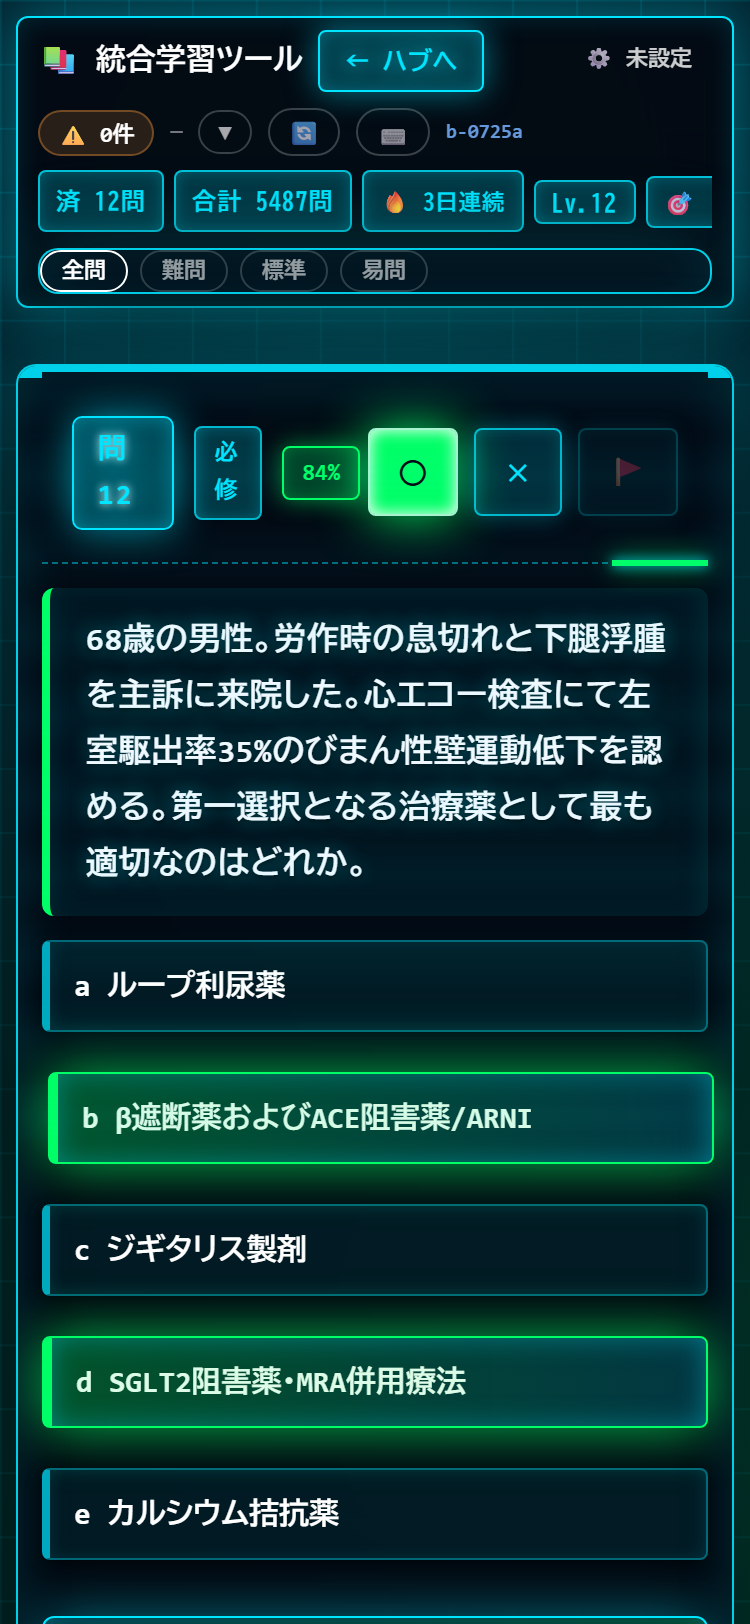
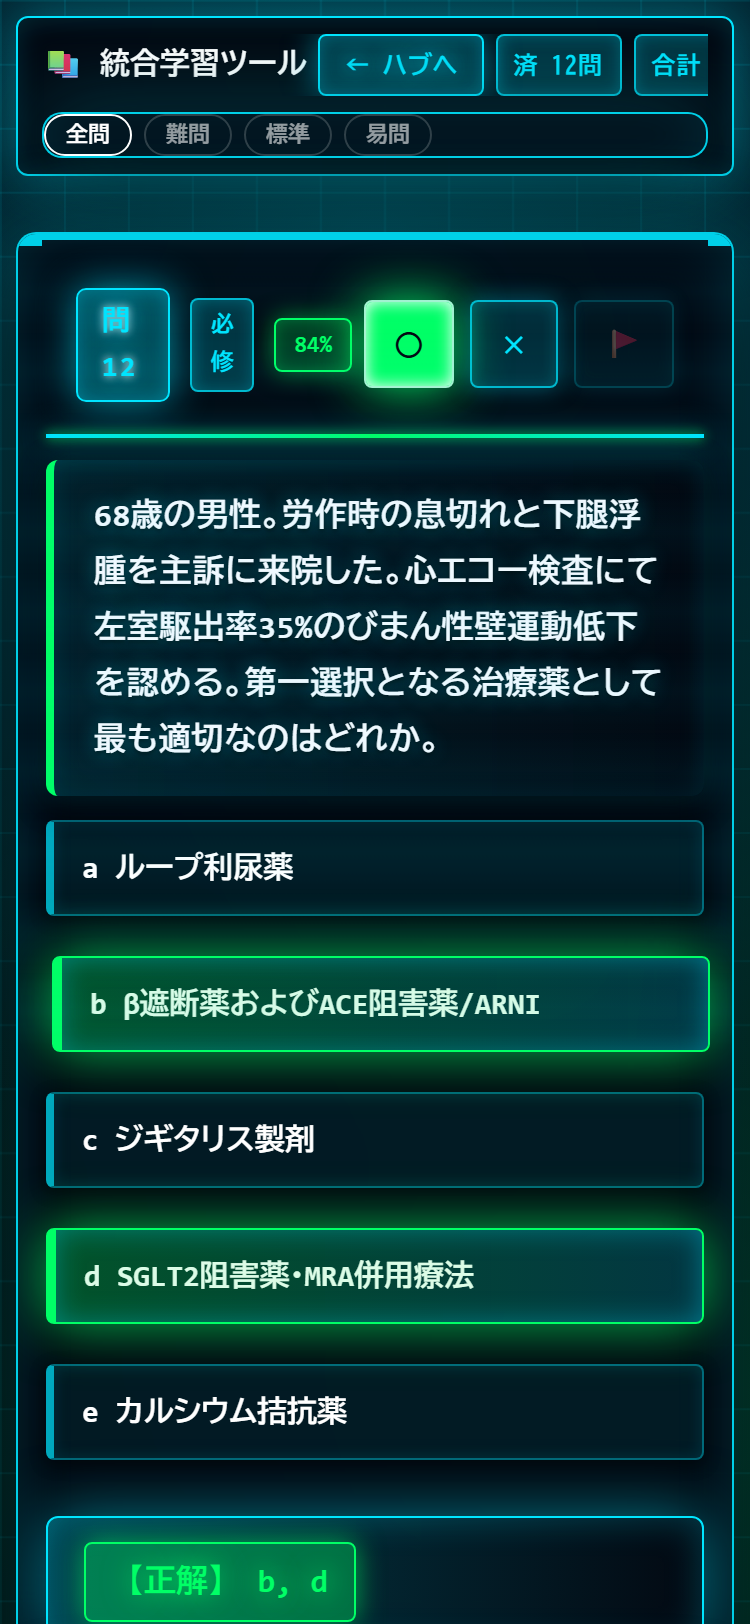
feat(header): merge stats & exam-mode button row into hub-link row and synchronize button order in collapsed state (SHELL_VERSION 2026-08-22l)

diff --git a/study.html b/study.html
@@ -61,6 +61,12 @@ if ('serviceWorker' in navigator) {
   <div class="st-title-row">
     <span class="st-title">📚 統合学習ツール</span>
     <a class="hub-link" href="index.html">← ハブへ</a>
+    <div class="st-stat">済 <span id="statDone">0</span>問</div>
+    <div class="st-stat">合計 <span>5487</span>問</div>
+    <div class="st-stat"><span class="st-streak">🔥 <span id="studyStreak">0</span>日連続</span></div>
+    <button type="button" class="st-stat gm-lv-chip" id="gmLvChip" title="タップでレベル・実績・ミッションを表示">Lv.<b id="gmLvNum">–</b><span class="gm-chip-bar"><span class="gm-chip-fill" id="gmChipFill" style="width:0%"></span></span></button>
+    <button type="button" class="st-stat gm-mission-chip" id="gmMissionChip" title="今日のミッション（必須が揃うと緑）">🎯 –</button>
+    <button class="st-stat exam-mode-chip" id="examModeBtn" onclick="openExamStart()" title="試験モードを開始（現在のフィルター・科目から出題）">🎓 試験モード</button>
     <span class="mec-sync-badge">⚙ 未設定</span>
     <button class="mec-err-badge" id="mecErrBadge" onclick="openErrReports()">⚠ <span id="errCount">0</span>件</button>
     <span class="vis-count" id="visCount" role="status" aria-live="polite" aria-atomic="true">—</span>
@@ -68,14 +74,6 @@ if ('serviceWorker' in navigator) {
     <button class="hdr-toggle" id="mecRefreshBtn" onclick="mecForceRefresh(this)" title="キャッシュを削除して最新版を再読み込み（学習データは消えません）">🔄</button>
     <button class="hdr-toggle" onclick="document.getElementById('mecKbHelp').classList.add('open')" title="キーボードショートカット (?)">⌨</button>
     <span id="mecBuildVer" title="読み込まれているstudy.htmlの版数（リロードで変われば最新が届いた証拠）" style="font-size:10px;font-weight:700;color:rgba(120,179,255,.85);align-self:center;letter-spacing:.5px;">b-0725a</span>
-  </div>
-  <div class="st-stats">
-    <div class="st-stat">済 <span id="statDone">0</span>問</div>
-    <div class="st-stat">合計 <span>5487</span>問</div>
-    <div class="st-stat"><span class="st-streak">🔥 <span id="studyStreak">0</span>日連続</span></div>
-    <button type="button" class="st-stat gm-lv-chip" id="gmLvChip" title="タップでレベル・実績・ミッションを表示">Lv.<b id="gmLvNum">–</b><span class="gm-chip-bar"><span class="gm-chip-fill" id="gmChipFill" style="width:0%"></span></span></button>
-    <button type="button" class="st-stat gm-mission-chip" id="gmMissionChip" title="今日のミッション（必須が揃うと緑）">🎯 –</button>
-    <button class="st-stat exam-mode-chip" id="examModeBtn" onclick="openExamStart()" title="試験モードを開始（現在のフィルター・科目から出題）">🎓 試験モード</button>
   </div>
   <div class="st-filter-panel" id="stFilterPanel">
     <div class="chip-row" role="group" aria-label="科目を選ぶ（1科目のみ）">

diff --git a/ui_theme.css b/ui_theme.css
@@ -2268,72 +2268,32 @@ body.ch-exam-mode .qc:not(.ch-exam-revealed) .ch2.ok:not(.exam-selected) {
 }
 
 /* ═══════════════════════════════════════════════════════════════════
-   ヘッダー折りたたみ時 (hdr-collapsed): 1行統合レイアウト
+   ヘッダー: 1行統合レイアウト & 折りたたみ時 (hdr-collapsed)
    ═══════════════════════════════════════════════════════════════════ */
-.st-hdr.hdr-collapsed {
+.st-title-row {
   display: flex !important;
-  flex-direction: row !important;
   align-items: center !important;
+  gap: 6px !important;
   flex-wrap: nowrap !important;
-  gap: 8px !important;
-  padding: 6px 12px !important;
   overflow-x: auto !important;
   scrollbar-width: none !important;
+  margin-bottom: 7px !important;
 }
 
-.st-hdr.hdr-collapsed::-webkit-scrollbar {
+.st-title-row::-webkit-scrollbar {
   display: none !important;
 }
 
+.st-hdr.hdr-collapsed {
+  padding: 6px 12px !important;
+}
+
 .st-hdr.hdr-collapsed .st-title-row {
-  display: contents !important;
+  margin-bottom: 0 !important;
 }
 
 .st-hdr.hdr-collapsed .st-title {
   display: none !important;
-}
-
-.st-hdr.hdr-collapsed .st-stats {
-  display: contents !important;
-}
-
-.st-hdr.hdr-collapsed .hub-link {
-  order: 1 !important;
-}
-
-.st-hdr.hdr-collapsed .st-stat.exam-mode-chip {
-  order: 2 !important;
-  margin-left: 0 !important;
-}
-
-.st-hdr.hdr-collapsed .st-stat:not(.exam-mode-chip) {
-  order: 3 !important;
-}
-
-.st-hdr.hdr-collapsed .mec-sync-badge {
-  order: 4 !important;
-  margin-left: 0 !important;
-}
-
-.st-hdr.hdr-collapsed .mec-err-badge {
-  order: 5 !important;
-}
-
-.st-hdr.hdr-collapsed .vis-count {
-  order: 6 !important;
-}
-
-.st-hdr.hdr-collapsed #hdrToggle {
-  order: 7 !important;
-  margin-left: 4px !important;
-}
-
-.st-hdr.hdr-collapsed #mecRefreshBtn {
-  order: 8 !important;
-}
-
-.st-hdr.hdr-collapsed .hdr-toggle:not(#hdrToggle):not(#mecRefreshBtn) {
-  order: 9 !important;
 }
 
 .st-hdr.hdr-collapsed #mecBuildVer,

diff --git a/_work/shot.js b/_work/shot.js
@@ -37,6 +37,12 @@ body { margin: 20px auto; max-width: 900px; font-family: -apple-system, BlinkMac
     <div class="st-title-row">
       <span class="st-title">📚 統合学習ツール</span>
       <a class="hub-link" href="#">← ハブへ</a>
+      <div class="st-stat">済 <span>12</span>問</div>
+      <div class="st-stat">合計 <span>5487</span>問</div>
+      <div class="st-stat"><span class="st-streak">🔥 <span>3</span>日連続</span></div>
+      <button type="button" class="st-stat gm-lv-chip">Lv.<b>12</b></button>
+      <button type="button" class="st-stat gm-mission-chip">🎯 1/3</button>
+      <button class="st-stat exam-mode-chip">🎓 試験モード</button>
       <span class="mec-sync-badge">⚙ 未設定</span>
       <button class="mec-err-badge" style="display:inline-flex;">⚠ 0件</button>
       <span class="vis-count">—</span>
@@ -44,14 +50,6 @@ body { margin: 20px auto; max-width: 900px; font-family: -apple-system, BlinkMac
       <button class="hdr-toggle">🔄</button>
       <button class="hdr-toggle">⌨</button>
       <span id="mecBuildVer" style="font-size:10px;font-weight:700;color:rgba(120,179,255,.85);align-self:center;">b-0725a</span>
-    </div>
-    <div class="st-stats">
-      <div class="st-stat">済 <span>12</span>問</div>
-      <div class="st-stat">合計 <span>5487</span>問</div>
-      <div class="st-stat"><span class="st-streak">🔥 <span>3</span>日連続</span></div>
-      <button type="button" class="st-stat gm-lv-chip">Lv.<b>12</b></button>
-      <button type="button" class="st-stat gm-mission-chip">🎯 1/3</button>
-      <button class="st-stat exam-mode-chip">🎓 試験モード</button>
     </div>
     ${!isCollapsed ? `
     <div class="st-filter-panel" style="margin-top:8px;">

diff --git a/sw.js b/sw.js
@@ -1,3 +1,7 @@
+// 2026-08-22l: ヘッダー統計・試験モードボタンを「←ハブへ」と同じ行へ統合。
+//   - study.html / ui_theme.css / gamify.js: 「済/合計/連続/Lv/ミッション/試験モード」を「←ハブへ」の行に統合。
+//   - 折りたたみ時（hdr-collapsed）と展開時でボタンの並び順が完全に一致するよう最適化。
+//   シェルのみの変更なので CACHE は据え置き＝SHELL_VERSION だけ bump。
 // 2026-08-22k: UIテーマ自律進化・完全ビジュアル改善ループ（全10イテレーション完遂）。
 //   全4テーマ（Aurora/Brass/Cyber/Liquid）の背景・環境光・問題カード境界ディバイダー・引用インジケーター・
 //   タクタイル選択肢・解答ボックス/解説ボックス・自己採点ボタン群（40/44pxタップ領域 & 物理反発感）・
@@ -315,7 +319,7 @@ const CACHE = "mec-v169";
 // 据え置きなので CARDS(問題JSON 約15MB)は再DLされない。install が cache:'reload' でシェルだけ
 // 最新取得して上書きするため、シェル(html/css/js)を変えたらここを日付+連番で bump すれば確実に届く。
 // （questions_*.json を変えた時だけ CACHE 自体を bump ＝全再DL）
-const SHELL_VERSION = "2026-08-22k";
+const SHELL_VERSION = "2026-08-22l";
 // パスは相対必須: GitHub Pages のプロジェクトサイト（/MEC/ 配下）では
 // "/study.html" は 404 になり caches.addAll が失敗 → SW インストール自体が失敗する
 const SHELL = [

diff --git a/gamify.js b/gamify.js
@@ -1009,7 +1009,7 @@
 
   // ── ヘッダーチップ（study.html） ─────────────────────────────────
   function _mountStudyHeader() {
-    const row = document.querySelector('.st-stats');
+    const row = document.querySelector('.st-stats') || document.querySelector('.st-title-row');
     if (!row) return;
     let lv = document.getElementById('gmLvChip');
     let mi = document.getElementById('gmMissionChip');
@@ -1035,10 +1035,10 @@
     }
     mi.onclick = openPanelModal;
 
-    // 試験モードボタンを「今日のミッション」の右（末尾）へ確実に移動
+    // 試験モードボタンを「今日のミッション」の右へ配置
     const examBtn = document.getElementById('examModeBtn');
-    if (examBtn && examBtn.parentNode === row) {
-      row.appendChild(examBtn);
+    if (examBtn && mi && mi.nextSibling !== examBtn && mi.parentNode) {
+      mi.parentNode.insertBefore(examBtn, mi.nextSibling);
     }
     _updateHeaderChips();
   }
